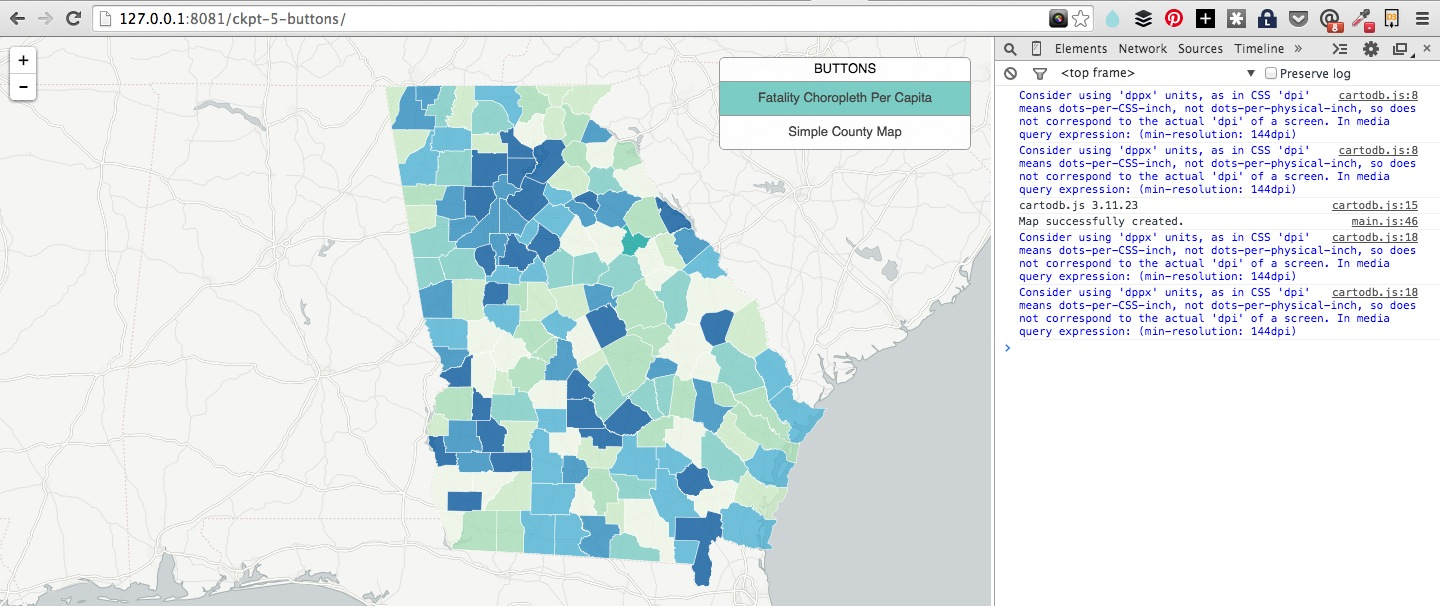
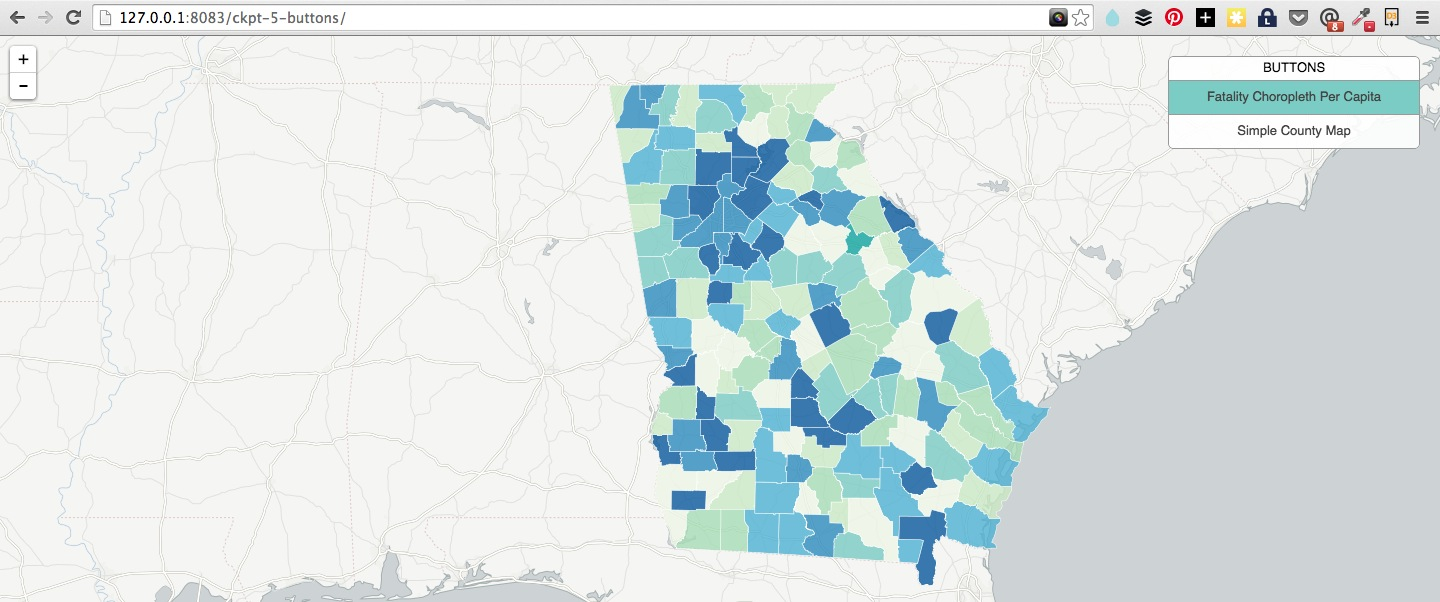
img standardization

diff --git a/ckpt-4-sqlcss/index.html b/ckpt-4-sqlcss/index.html
@@ -28,32 +28,32 @@
     <style type='cartocss/text' id='choropleth'>
     /** choropleth visualization */
     #atl_census_demo_2010{
-      polygon-fill: #F1E6F1;
+      polygon-fill: #005824;
       polygon-opacity: 0.8;
       line-color: #FFF;
-      line-width: 0.5;
+      line-width: 1;
       line-opacity: 1;
     }
-    #atl_census_demo_2010 [ fatalities_per_capita <= 116.48223645894] {
-       polygon-fill: #8A4E8A;
+    #atl_census_demo_2010 [ fatalities_per_capita <= 117] {
+       polygon-fill: #EDF8FB;
     }
-    #atl_census_demo_2010 [ fatalities_per_capita <= 43.4522839606757] {
-       polygon-fill: #A05AA0;
+    #atl_census_demo_2010 [ fatalities_per_capita <= 64] {
+       polygon-fill: #D7FAF4;
     }
-    #atl_census_demo_2010 [ fatalities_per_capita <= 34.5685840707965] {
-       polygon-fill: #B379B3;
+    #atl_census_demo_2010 [ fatalities_per_capita <= 45] {
+       polygon-fill: #CCECE6;
     }
-    #atl_census_demo_2010 [ fatalities_per_capita <= 27.2727272727273] {
-       polygon-fill: #C08FC0;
+    #atl_census_demo_2010 [ fatalities_per_capita <= 37] {
+       polygon-fill: #66C2A4;
     }
-    #atl_census_demo_2010 [ fatalities_per_capita <= 21.2074084546868] {
-       polygon-fill: #CCA5CC;
+    #atl_census_demo_2010 [ fatalities_per_capita <= 28] {
+       polygon-fill: #41AE76;
     }
-    #atl_census_demo_2010 [ fatalities_per_capita <= 16.7128259001051] {
-       polygon-fill: #D8BBD8;
+    #atl_census_demo_2010 [ fatalities_per_capita <= 20] {
+       polygon-fill: #238B45;
     }
-    #atl_census_demo_2010 [ fatalities_per_capita <= 12.3350191192796] {
-       polygon-fill: #F1E6F1;
+    #atl_census_demo_2010 [ fatalities_per_capita <= 13] {
+       polygon-fill: #005824;
     }
     </style>
   </head>

diff --git a/nicar_15_mappingjs.md b/nicar_15_mappingjs.md
@@ -469,6 +469,8 @@ These two pieces of code are just a jQuery operation that finds the HTML element
 
 Check [the checkpoint code](https://github.com/auremoser/nicar-test/tree/master/ckpt-4-sqlcss) here if you're stuck.
 
+![createButtons](https://raw.githubusercontent.com/auremoser/nicar-test/master/img/0-ckpt-buttons.png)
+
 **Reload your browser window, your map should work**
 
 
@@ -582,7 +584,9 @@ sublayers[0].infowindow.set('template', $('#infowindow_template').html());
 
 You can build on this, or checkout the demo block here to view the result of your work with some limited interactivity!
 
-[Onomatopoeia (Crash/Pop) Map]()
+[Onomatopoeia (Crash/Pop) Map](http://bl.ocks.org/auremoser/a90356af6669ccdc11ae)
+
+![info](https://raw.githubusercontent.com/auremoser/nicar-test/master/img/0-ckpt-info.png)
 
 # Building Narrative
 Outside of the CartoJS library, we have others to help you build dynamic narrative with your data.
